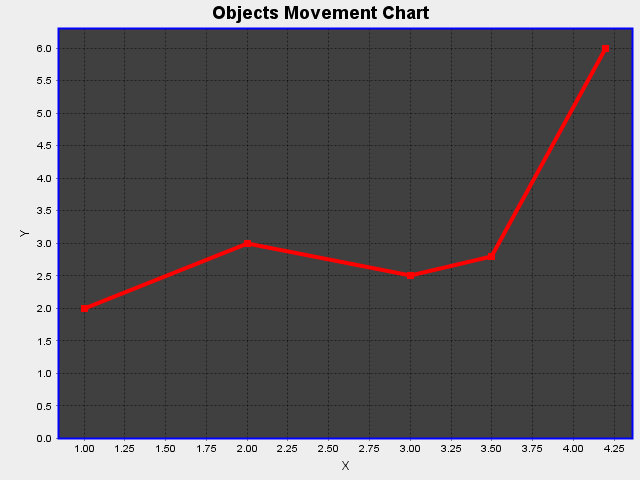
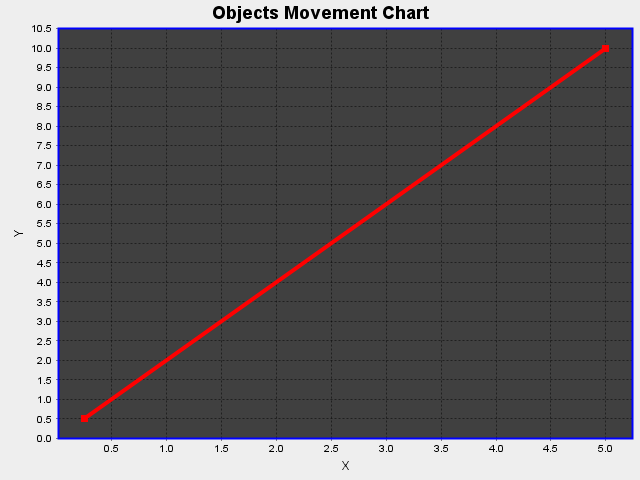
Linear graph almost done

diff --git a/src/p1/LinearGraph.java b/src/p1/LinearGraph.java
@@ -1,4 +1,5 @@
 package p1;
+import net.miginfocom.swing.MigLayout;
 import org.jfree.chart.ChartFactory;
 import org.jfree.chart.ChartPanel;
 import org.jfree.chart.ChartUtilities;
@@ -12,20 +13,34 @@ import org.jfree.chart.plot.PlotOrientation;
 
 import javax.swing.*;
 import java.awt.*;
+import java.awt.event.ActionEvent;
+import java.awt.event.ActionListener;
 import java.io.File;
 import java.io.IOException;
 
 public class LinearGraph extends JPanel{
-
+    JTextField txt1 = new JTextField();
     public LinearGraph() {
 
+        JButton update = new JButton("Update");
 
-        JPanel chartPanel = createChartPanel();
-        //add(chartPanel, BorderLayout.CENTER);
+        MigLayout mg = new MigLayout("debug,wrap","[][]","[][]");
+        setLayout(mg);
 
-        setSize(640, 480);
+        add(txt1,"growx,pushx");
+        add(update,"left,wrap");
+        update.addActionListener(new ActionListener() {
+            @Override
+            public void actionPerformed(ActionEvent e) {
+                repaint();
+                add(createChartPanel(), "grow,push, span 2");
+
+            }
+        });
+
 
     }
+
 
     private JPanel createChartPanel() {
         String chartTitle = "Objects Movement Chart";
@@ -37,13 +52,6 @@ public class LinearGraph extends JPanel{
         JFreeChart chart = ChartFactory.createXYLineChart(chartTitle,
                 xAxisLabel, yAxisLabel, dataset,PlotOrientation.VERTICAL,false,false,false);
 
-//		boolean showLegend = false;
-//		boolean createURL = false;
-//		boolean createTooltip = false;
-//
-//		JFreeChart chart = ChartFactory.createXYLineChart(chartTitle,
-//				xAxisLabel, yAxisLabel, dataset,
-//				PlotOrientation.HORIZONTAL, showLegend, createTooltip, createURL);
 
         customizeChart(chart);
 
@@ -64,19 +72,27 @@ public class LinearGraph extends JPanel{
     private XYDataset createDataset() {
         XYSeriesCollection dataset = new XYSeriesCollection();
         XYSeries series1 = new XYSeries("Object 1");
-        XYSeries series2 = new XYSeries("Object 2");
-        XYSeries series3 = new XYSeries("Object 3");
+        String input= txt1.getText();
 
-        series1.add(1.0, 2.0);
-        series1.add(2.0, 3.0);
-        series1.add(3.0, 2.5);
-        series1.add(3.5, 2.8);
-        series1.add(4.2, 6.0);
+        String words[] = input.split("x|X|Y|y|=|\\+");
+        for (int i = 0; i < words.length; i++) {
+            System.out.println(words[i]);
+        }
+        float X =Integer.parseInt(words[0]);
+        float Y = Integer.parseInt(words[2]);
+        float ans = Integer.parseInt(words[4]);
+
+        float xat0 = ans/Y;
+        float yat0 = ans/X;
+        float xat20 = ans/Y*20;
+        float yat20 = ans/X*20;
+        series1.add(xat0, yat0);
+        series1.add(xat20, yat20);
+
 
 
         dataset.addSeries(series1);
-        dataset.addSeries(series2);
-        dataset.addSeries(series3);
+
 
         return dataset;
     }
@@ -92,8 +108,7 @@ public class LinearGraph extends JPanel{
 
         // sets thickness for series (using strokes)
         renderer.setSeriesStroke(0, new BasicStroke(4.0f));
-        renderer.setSeriesStroke(1, new BasicStroke(3.0f));
-        renderer.setSeriesStroke(2, new BasicStroke(2.0f));
+
 
         // sets paint color for plot outlines
         plot.setOutlinePaint(Color.BLUE);
